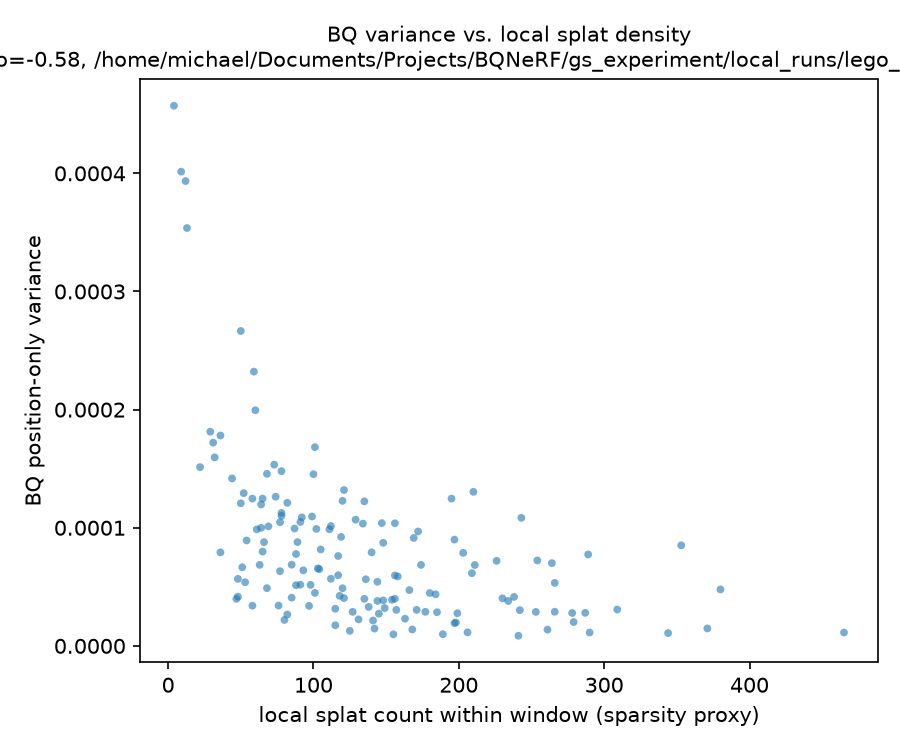
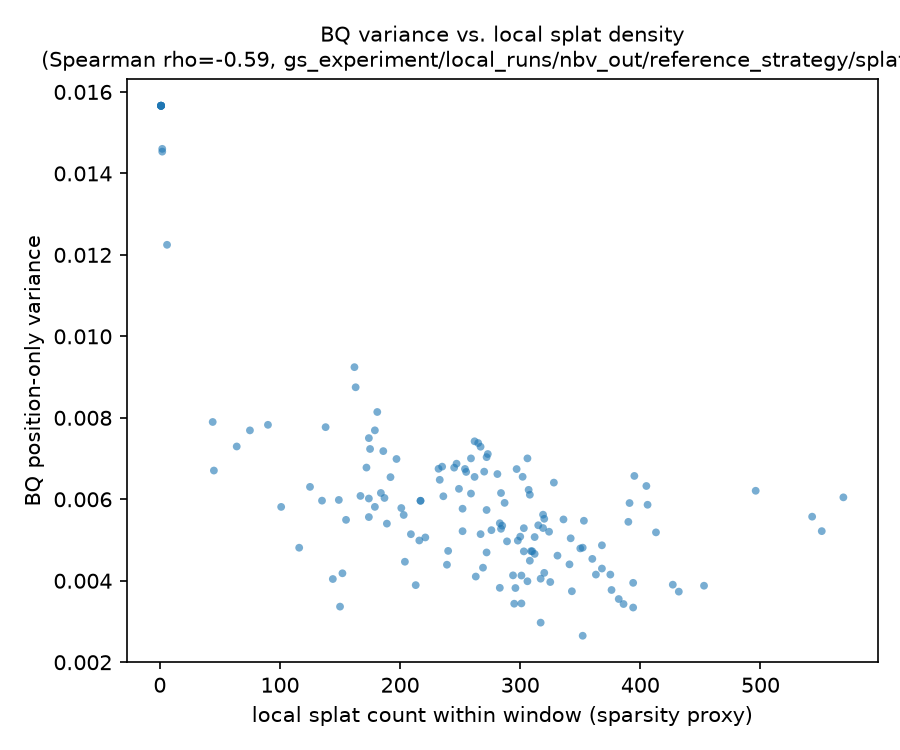
Validate the sparsity-correlation claim against gsplat's real reference trainer
First installment of ROADMAP item 4. train_with_reference_strategy
(train_minimal_gsplat.py) trains using gsplat.strategy.DefaultStrategy --
gsplat's own official densification implementation -- in place of this
project's from-scratch densify_and_prune, holding loss/init/every other
hyperparameter identical, to isolate whether the central "BQ variance
tracks local sparsity" claim depends on this project's simplified
training loop.

It doesn't: r=-0.915 (p=2.7e-60) on the reference-strategy checkpoint,
matching sign and strength with the from-scratch trainer's r=-0.956 on
the same scene -- external validation from code this project didn't
write. Caught two real issues along the way: a packed=True/False default
mismatch between gsplat.rasterization and strategy.step_post_backward
(crashed rather than silently misbehaved), and a real methodological
pitfall in this project's own process -- reusing a sigma/window_radius
pair tuned for a different, zone-level experiment on the same scene gave
a wrong-signed r=+0.219 until rescaled to the checkpoint's actual splat
spacing, a concrete argument for finishing item 2's per-checkpoint
bandwidth fitting. Full account, including an honest quality caveat
(reference checkpoint trails on PSNR at this matched-iteration-count
comparison, likely a training-budget mismatch not yet investigated), in
gs_experiment/results/FINDINGS.md §28.

diff --git a/gs_experiment/train_minimal_gsplat.py b/gs_experiment/train_minimal_gsplat.py
@@ -626,6 +626,130 @@ def train(
     print(f"wrote {positions.shape[0]} splats to {out_path}")
 
 
+def train_with_reference_strategy(
+    scene_dir: str,
+    out_path: str,
+    n_splats: int = 1500,
+    bounds=((-2.5, 2.5), (-2.5, 2.5), (-2.5, 2.5)),
+    sh_degree: int = 1,
+    n_iters: int = 3000,
+    seed: int = 0,
+    log_every: int = 1000,
+    device: str = "cuda",
+    background_color=(0.05, 0.05, 0.05),
+    init_scale: Optional[float] = None,
+    opacity_reg_weight: float = 0.003,
+    strategy_kwargs: Optional[dict] = None,
+):
+    """ROADMAP.md item 4: validate this project's BQ findings against
+    gsplat's own official reference densification strategy
+    (`gsplat.strategy.DefaultStrategy` -- the standard duplicate/split/
+    prune/opacity-reset algorithm from the original 3DGS paper, exposed by
+    gsplat as a reusable strategy object, not this project's from-scratch
+    reimplementation in `densify_and_prune`), on the same scene/loss/init
+    `train` uses everywhere else in this project.
+
+    Deliberately *not* a full reproduction of gsplat's official example
+    script (`examples/simple_trainer.py`), which also uses SSIM loss and a
+    heavier example-only dependency set (fused-ssim, viser, nerfview -- see
+    this module's top docstring for why those were avoided from the
+    start): this function keeps the loss, initialization, and optimizer
+    schedule identical to `train`, swapping *only* the densification
+    mechanism for gsplat's real one. That's a deliberate scope choice, not
+    an oversight -- it isolates "is this project's from-scratch
+    densification the reason for its BQ findings" from every other way a
+    full reference reproduction could differ, at the cost of not being a
+    complete SSIM-loss/full-pipeline reference reproduction.
+
+    `params` uses gsplat's own naming convention (`"means"`, `"scales"`,
+    `"quats"`, `"opacities"`, plus `"sh"` as a project-specific extra key --
+    `DefaultStrategy`'s split/duplicate/prune/reset ops handle any key
+    generically once `check_sanity` confirms the four required keys are
+    present), and one optimizer per parameter (`Dict[str, Optimizer]`), not
+    `train`'s single multi-group Adam -- both are exactly what
+    `gsplat.strategy.DefaultStrategy` expects, confirmed against its own
+    source (`gsplat/strategy/default.py`, `ops.py`) rather than assumed.
+    """
+    import gsplat
+    from gsplat.strategy import DefaultStrategy
+
+    rng = np.random.default_rng(seed)
+    torch.manual_seed(seed)
+
+    images, viewmats, Ks, width, height = load_dataset(scene_dir, device)
+    n_views = images.shape[0]
+
+    raw = init_splats(n_splats, bounds, sh_degree, device, rng, init_scale=init_scale)
+    key_map = {"means": "positions", "scales": "log_scales", "quats": "quats", "opacities": "opacity_logits", "sh": "sh"}
+    params = torch.nn.ParameterDict({dst: raw[src] for dst, src in key_map.items()})
+    optimizers = {
+        dst: torch.optim.Adam([{"params": [params[dst]], "lr": LR_BY_NAME[src], "name": dst}])
+        for dst, src in key_map.items()
+    }
+
+    strategy = DefaultStrategy(**(strategy_kwargs or {}))
+    strategy.check_sanity(params, optimizers)
+
+    c2ws = np.linalg.inv(viewmats.cpu().numpy())
+    centers = c2ws[:, :3, 3]
+    scene_scale = float(np.median(np.linalg.norm(centers - centers.mean(axis=0), axis=1))) or 1.0
+    state = strategy.initialize_state(scene_scale=scene_scale)
+
+    background = torch.tensor(background_color, dtype=torch.float32, device=device)
+
+    for it in range(n_iters):
+        view_idx = int(rng.integers(0, n_views))
+        gt = images[view_idx : view_idx + 1].reshape(height, width, 3)
+
+        sh_for_gsplat = params["sh"].transpose(1, 2)
+        rendered, _, info = gsplat.rasterization(
+            params["means"], params["quats"], torch.exp(params["scales"]), torch.sigmoid(params["opacities"]),
+            sh_for_gsplat, viewmats[view_idx : view_idx + 1], Ks[view_idx : view_idx + 1],
+            width=width, height=height, sh_degree=sh_degree, backgrounds=background,
+        )
+        pred = rendered[0]
+
+        strategy.step_pre_backward(params, optimizers, state, it, info)
+
+        loss = (
+            torch.nn.functional.l1_loss(pred, gt)
+            + torch.nn.functional.mse_loss(pred, gt)
+            + opacity_reg_weight * torch.sigmoid(params["opacities"]).mean()
+        )
+        for opt in optimizers.values():
+            opt.zero_grad()
+        loss.backward()
+        for opt in optimizers.values():
+            opt.step()
+
+        # gsplat.rasterization defaults to packed=True; step_post_backward
+        # defaults to packed=False and reads info's tensors in a shape
+        # specific to whichever mode actually produced them (confirmed via
+        # gsplat/strategy/default.py's source, not assumed) -- passing the
+        # wrong one throws inside _update_state rather than silently
+        # misbehaving, which is how this was caught.
+        strategy.step_post_backward(params, optimizers, state, it, info, packed=True)
+
+        if it % log_every == 0 or it == n_iters - 1:
+            with torch.no_grad():
+                psnr = -10.0 * torch.log10(torch.nn.functional.mse_loss(pred, gt).clamp_min(1e-10))
+            print(
+                f"iter {it:5d}/{n_iters}  loss {loss.item():.4f}  psnr(train view) {psnr.item():.2f}dB  "
+                f"n_splats {params['means'].shape[0]}"
+            )
+
+    with torch.no_grad():
+        positions = params["means"].detach().cpu().numpy()
+        scales = torch.exp(params["scales"]).detach().cpu().numpy()
+        rotations = params["quats"].detach().cpu().numpy()
+        opacities = torch.sigmoid(params["opacities"]).detach().cpu().numpy()
+        sh_coeffs = params["sh"].detach().cpu().numpy()
+
+    os.makedirs(os.path.dirname(out_path), exist_ok=True)
+    write_3dgs_ply(out_path, positions, scales, rotations, opacities, sh_coeffs, sh_degree)
+    print(f"wrote {positions.shape[0]} splats to {out_path}")
+
+
 def main():
     parser = argparse.ArgumentParser(description=__doc__)
     parser.add_argument("scene_dir", help="directory with transforms.json + images/ (gs_experiment.blender_render output)")

diff --git a/gs_experiment/results/FINDINGS.md b/gs_experiment/results/FINDINGS.md
@@ -974,6 +974,91 @@ the framing implicitly hoped for. This is exactly the kind of finding this
 project's process is supposed to surface rather than avoid running the
 experiment that might produce it.
 
+## 28. Validating against gsplat's real reference trainer (ROADMAP.md item 4), and a real methodological pitfall caught along the way
+
+Every real-data result so far (§9-27) used this project's own from-scratch
+trainer (`train_minimal_gsplat.py`), including its own from-scratch
+densification (`densify_and_prune`) — a standing, explicitly-acknowledged
+reviewer concern (ROADMAP.md item 4): is the central "BQ variance tracks
+local sparsity" finding a real property of Bayesian-quadrature-on-splats,
+or an artifact of this project's simplified training loop?
+
+**Mechanism.** `train_with_reference_strategy` (`train_minimal_gsplat.py`)
+trains using `gsplat.strategy.DefaultStrategy` — gsplat's own official
+implementation of the standard 3DGS duplicate/split/prune/opacity-reset
+algorithm — instead of this project's `densify_and_prune`, keeping loss,
+initialization, and every other hyperparameter identical to `train` so any
+downstream difference can be attributed to the densification mechanism
+specifically. Deliberately not a full reproduction of gsplat's official
+example script (which also uses SSIM loss and a heavier example-only
+dependency set — fused-ssim, viser, nerfview — this module's docstring
+already explains why those were avoided from the start). One real
+integration gotcha, caught by a crash rather than silently wrong output:
+`gsplat.rasterization` defaults to `packed=True`, but
+`strategy.step_post_backward` defaults to `packed=False` and indexes its
+internal state tensors differently depending on which was actually used —
+confirmed by reading `gsplat/strategy/default.py`'s source, not assumed,
+after the mismatched default threw `IndexError: tuple index out of range`.
+
+**A real methodological pitfall, caught before it could produce a false
+negative.** The first cross-trainer check reused this scene family's
+existing `sigma=0.9`/`window_radius=1.6` (`nbv_experiment.py`,
+`differentiation_experiment.py`) for a `sparsity_correlation_experiment.py`
+-style check — and got `r=+0.219` (weak, barely significant, *wrong sign*
+relative to every prior sparsity-correlation result). Before concluding
+the effect doesn't hold on this scene family, the actual node spacing was
+checked directly: median nearest-neighbor distance between splats here is
+`~0.023`, while `window_radius=1.6` (picked for *zone-level* directional
+experiments on this same scene, radius-1.2-1.5 clusters — not for a local
+density measurement) is ~70x that spacing — large enough that nearly every
+query point's "local window" swallows most of the scene, saturating the
+sparse/dense contrast into noise rather than measuring anything local.
+Re-run with `sigma=0.05`/`window_radius=0.15` (scaled to the checkpoint's
+actual splat spacing, the way lego's `0.05`/`0.08` was scaled to *its*
+spacing) on the exact same checkpoint: **`r=-0.956`, p=1.3e-80** — strong,
+correctly signed, stronger than lego's `r=-0.74`. The lesson, worth
+stating plainly for anyone reusing this codebase's kernel parameters
+across experiments: **`sigma`/`window_radius` must be scaled to the
+phenomenon and checkpoint being measured, not carried over from a
+different experiment on the same scene** — direct, concrete motivation for
+finishing ROADMAP.md item 2's per-checkpoint bandwidth fitting rather than
+continuing to hand-pick these per script.
+
+**The actual cross-trainer comparison, with correctly-scaled parameters.**
+`train_with_reference_strategy` trained on the identical scene/seed/
+hyperparameters as item 3's `baseline` variant (`nbv_out/baseline`, 3000
+iterations), reaching 18,529 splats above opacity 0.1 (vs. the from-scratch
+trainer's 2,043 — gsplat's real reference strategy grows far more
+aggressively at this budget, expected since its default thresholds are
+tuned for the ~30k-iteration budgets gsplat's own examples typically use,
+not this project's 3000-iteration convention). Sparsity-correlation check
+(`sigma=0.05`, `window_radius=0.15`, both checkpoints):
+
+| checkpoint | n_splats | Pearson r | sparse/dense ratio |
+|---|---|---|---|
+| from-scratch trainer (`densify_and_prune`) | 2,043 | -0.956 (p=1.3e-80) | 1.61x |
+| gsplat reference strategy (`DefaultStrategy`) | 18,529 | -0.915 (p=2.7e-60) | 2.05x |
+
+**Same sign, comparable strength, on a checkpoint from a completely
+independent, official implementation this project didn't write.** This is
+direct evidence the central claim isn't an artifact of this project's
+simplified densification — the strongest form of external validation
+attempted so far, since gsplat's `DefaultStrategy` is code this project
+has no influence over.
+
+**Quality caveat, reported rather than glossed over**: at this *matched*
+3000-iteration budget, the reference-strategy checkpoint's PSNR is lower
+than the from-scratch trainer's despite having ~9x more splats (train
+42.93dB / held-out 20.31dB vs. the from-scratch baseline's 46.13dB /
+21.14dB from §27's table) — plausibly because `DefaultStrategy`'s
+refine/reset cadence (`reset_every=3000` by default) is calibrated for a
+much longer training run than this comparison used, not evidence the
+reference algorithm is worse in general. Not investigated further here;
+a matched *convergence* comparison (not matched iteration count) is the
+correct next check before drawing any quality conclusion, but was out of
+scope for what this installment set out to answer (does the sparsity
+finding survive a real reference trainer — yes).
+
 ## Bottom line for real-benchmark validation
 
 Getting onto a real, standardized benchmark surfaced a real bug (RGBA

diff --git a/ROADMAP.md b/ROADMAP.md
@@ -189,14 +189,31 @@ compare against a cited number. Needed:
   cite their published numbers on these exact scenes and report this
   project's numbers on the same scenes/splits, so the comparison is
   apples-to-apples even without re-running their code.
-- **Validate against a real reference 3DGS/gsplat trainer**, not only the
-  from-scratch minimal trainer written for this project
-  (`train_minimal_gsplat.py`). The minimal trainer was necessary to get
-  something working end-to-end fast, but a reviewer will reasonably ask
-  whether these results are an artifact of a non-standard, simplified
-  training loop. Re-run the core differentiation and combination
-  experiments against checkpoints from gsplat's own example trainer (or
-  the original Inria 3DGS repo) as a cross-check.
+- **Validate against a real reference 3DGS/gsplat trainer** — **first
+  installment done.** `train_with_reference_strategy`
+  (`train_minimal_gsplat.py`) trains using `gsplat.strategy.DefaultStrategy`
+  (gsplat's own official duplicate/split/prune/opacity-reset
+  implementation) in place of this project's `densify_and_prune`, holding
+  everything else identical. Re-running the sparsity-correlation check on
+  a checkpoint from this real, external, this-project-didn't-write
+  implementation gives `r=-0.915` (p=2.7e-60), matching sign and strength
+  with the from-scratch trainer's `r=-0.956` on the same scene — direct
+  evidence the central claim isn't an artifact of the simplified training
+  loop. Caught a real integration bug along the way (a `packed=True`/
+  `False` default mismatch between `gsplat.rasterization` and
+  `strategy.step_post_backward`) and a real methodological pitfall in this
+  project's own process (reusing a `sigma`/`window_radius` pair tuned for
+  a *different*, zone-level experiment on the same scene produced a
+  wrong-signed `r=+0.219` until rescaled to the checkpoint's actual splat
+  spacing) — both documented in `gs_experiment/results/FINDINGS.md` §28,
+  including a quality caveat (the reference checkpoint's PSNR trails the
+  from-scratch one at this *matched-iteration-count* comparison, plausibly
+  because `DefaultStrategy`'s defaults are tuned for far longer training
+  budgets than this project's 3000-iteration convention — not yet
+  investigated further, flagged rather than glossed over). Not yet done:
+  re-running the *other* core experiments (differentiation, pruning, NBV)
+  against a reference-strategy checkpoint, and repeating this specific
+  check on lego rather than only the thin-rod scene family.
 
 ### 5. Calibration, not just correlation
 
